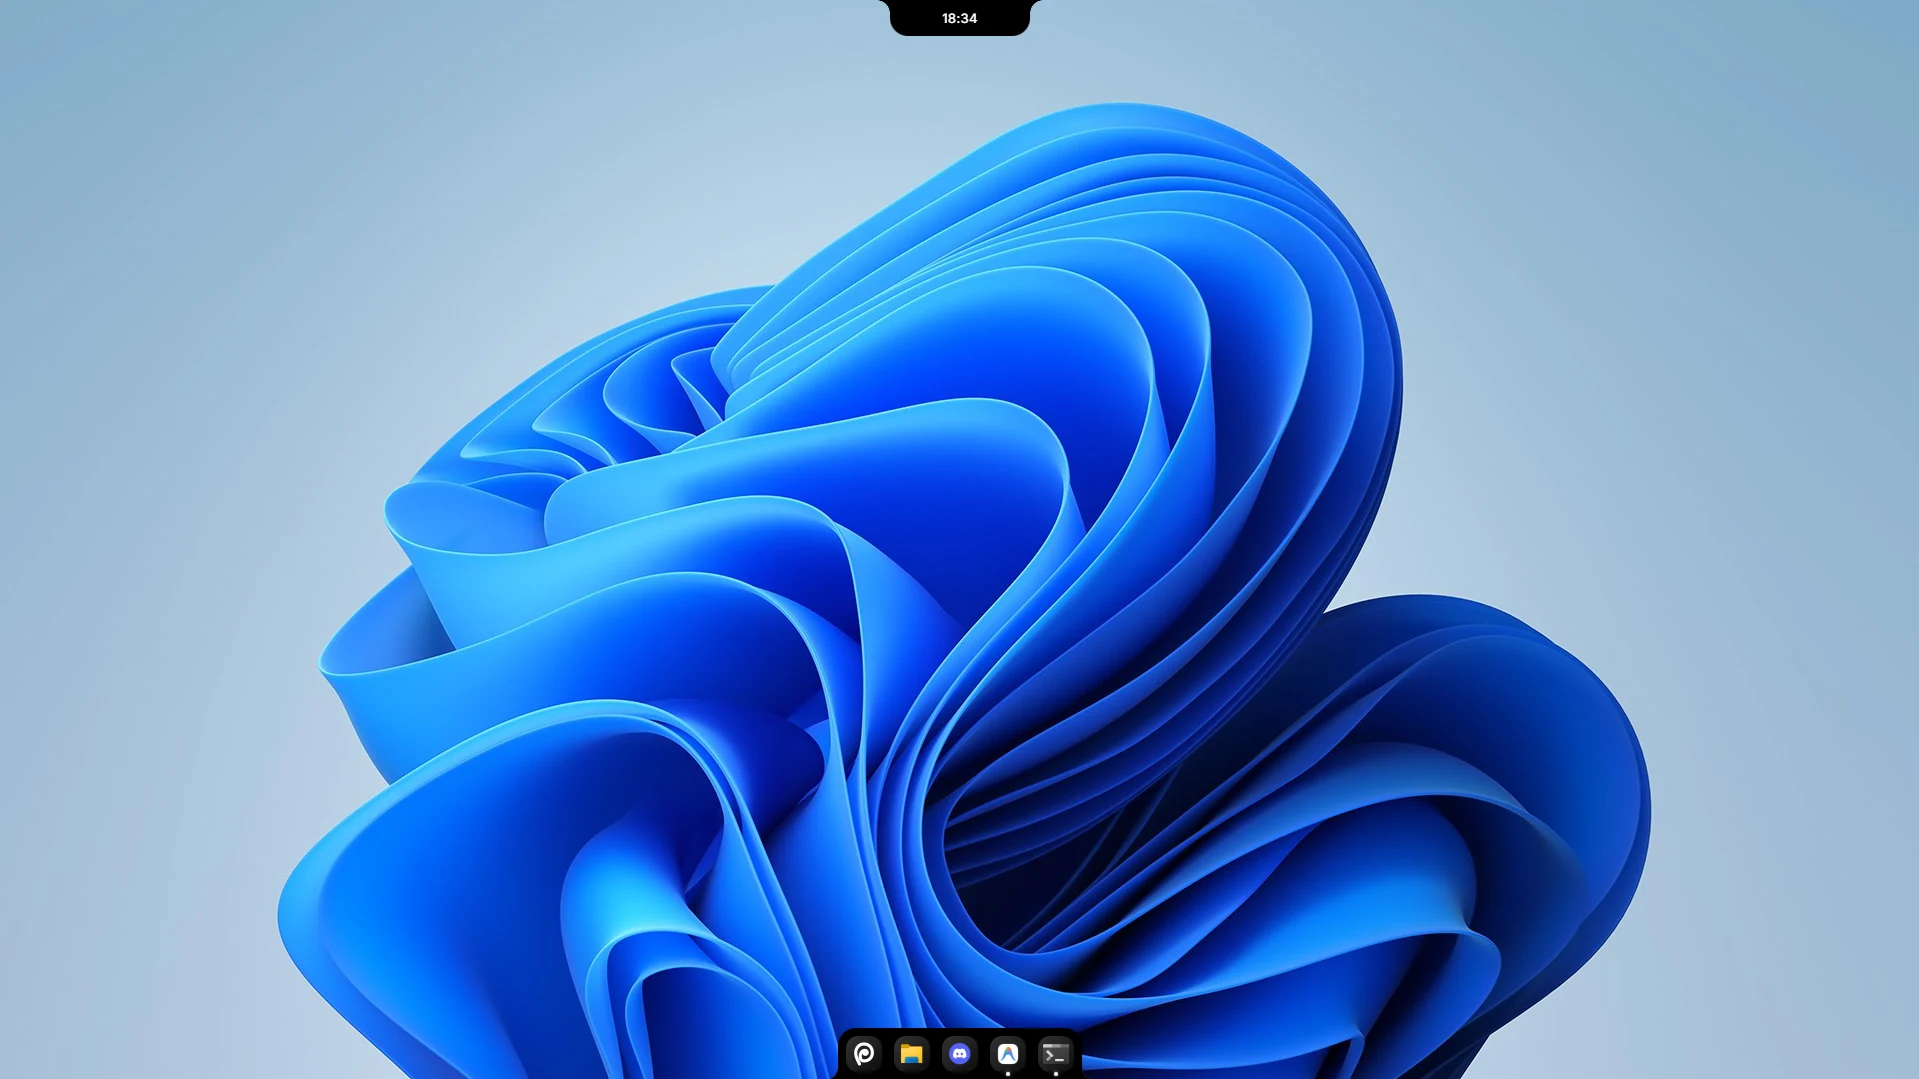
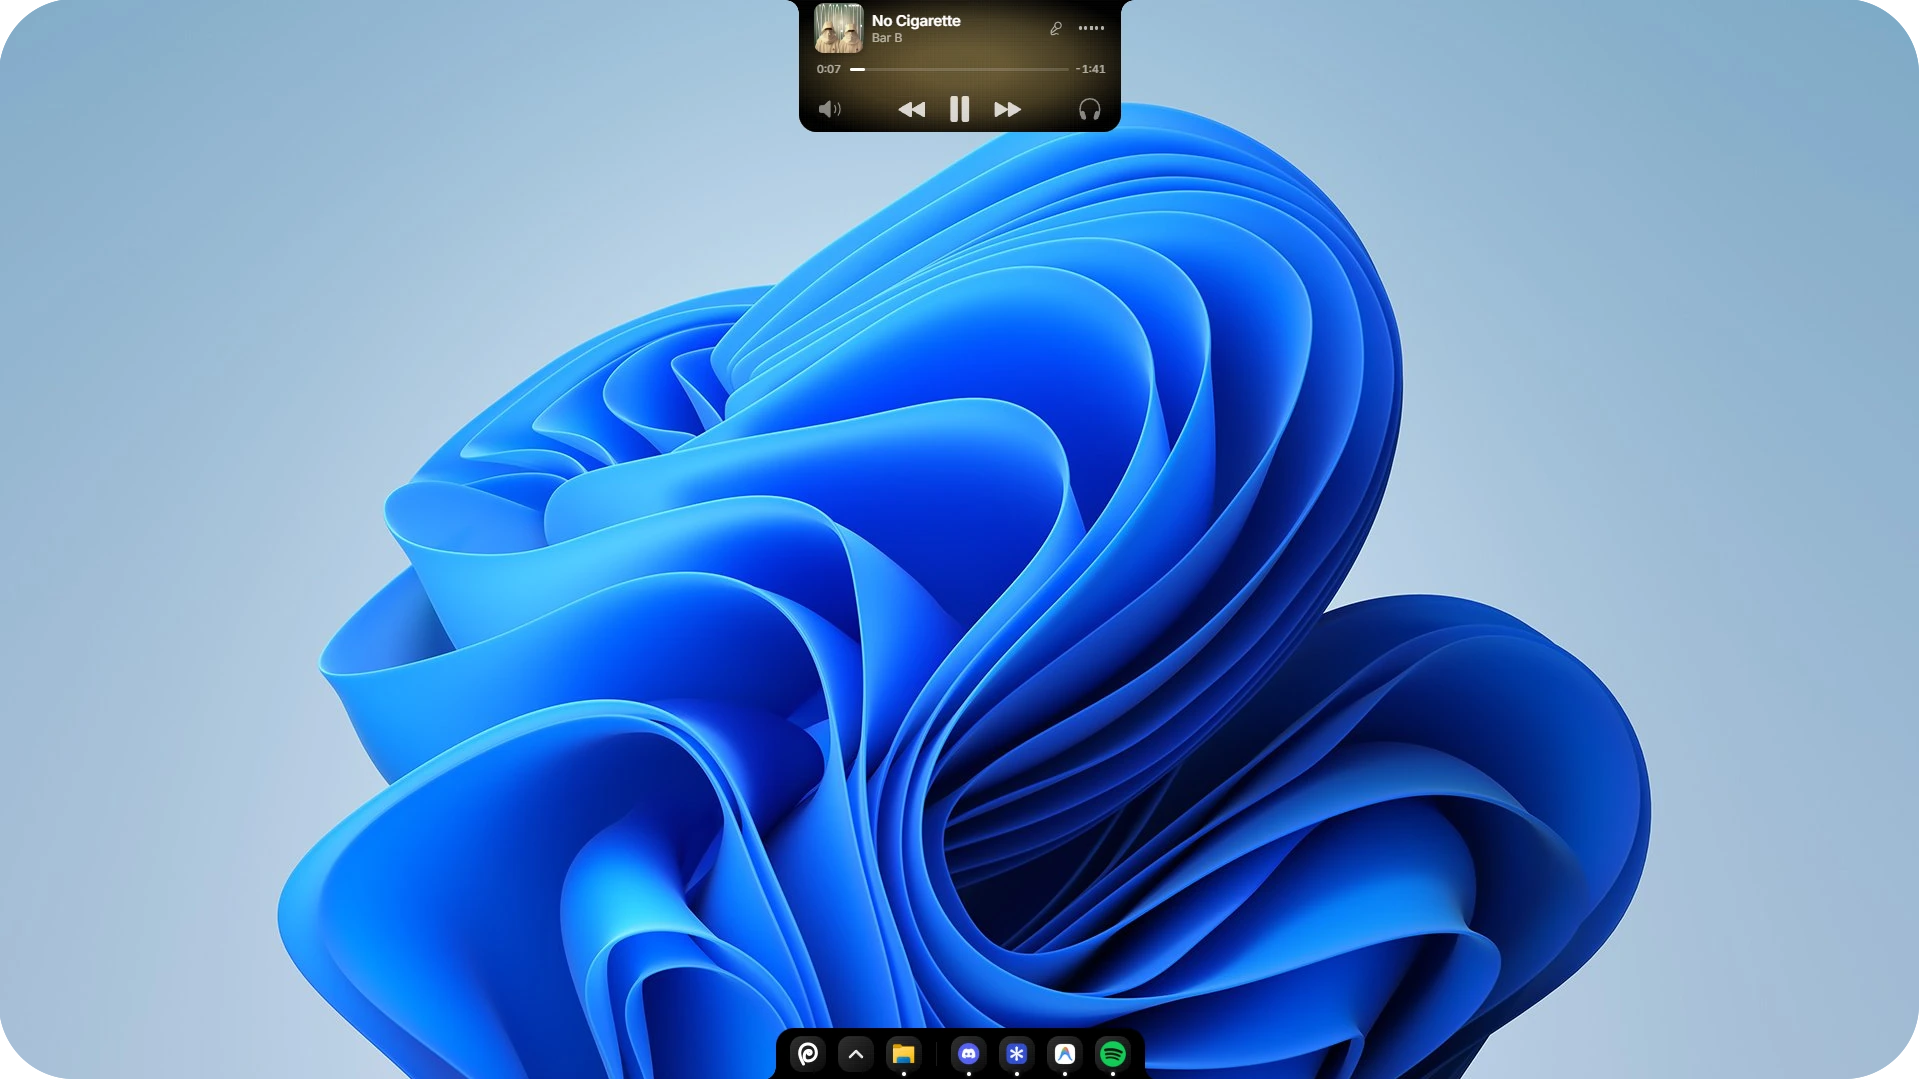
docs: convert README screenshots to WebP and showcase live lyrics

diff --git a/README.md b/README.md
@@ -40,11 +40,11 @@
 <div align="center">
 <table>
   <tr>
-    <td align="center"><img src="docs/screenshots/island.png" width="420" alt="The Fern notch" /></td>
-    <td align="center"><img src="docs/screenshots/dock.png" width="420" alt="The Fern dock" /></td>
+    <td align="center"><img src="docs/screenshots/island.webp" width="420" alt="The Fern notch with privacy indicator" /></td>
+    <td align="center"><img src="docs/screenshots/dock.webp" width="420" alt="The Fern dock" /></td>
   </tr>
   <tr>
-    <td align="center"><sub>The notch</sub></td>
+    <td align="center"><sub>The notch (with active mic indicator)</sub></td>
     <td align="center"><sub>The dock</sub></td>
   </tr>
 </table>
@@ -87,6 +87,12 @@ Scroll or swipe on the notch to cycle through panels (customizable order in **Se
 | **Calendar** | Day, week, month, and agenda views synced from `.ics` / `webcal://` links or CalDAV (credentials stored in Windows Credential Manager), plus timer, stopwatch, and Pomodoro. |
 | **Shelf** | Drop files or text onto the notch to keep them handy and drag them into any app later. |
 | **Agent Companion** | Fernie mascot status card with tool details, click-to-focus window jumping, and **Allow / Deny** buttons for interactive prompts. |
+
+<div align="center">
+  <img src="docs/screenshots/notch-lyrics.webp" width="580" alt="Live Synchronized Lyrics inside the Fern music notch" />
+  <br />
+  <sub>Live Synchronized Lyrics — click any line to seek</sub>
+</div>
 
 ### Visibility & overlays
 
